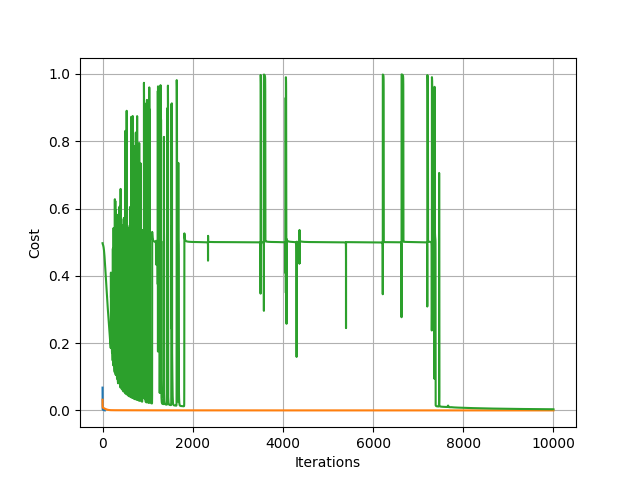
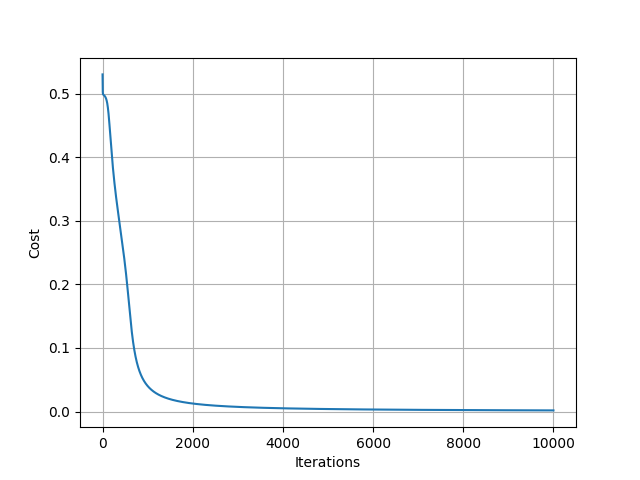
Brushed up implementation

diff --git a/python-code/forward_prop_test.py b/python-code/forward_prop_test.py
@@ -62,6 +62,8 @@ def test_opt():
     nn = NeuralNetwork(X.shape[1])
     t = Trainer(nn)
     t.train(X, y)
+
+    plt.close()
     plt.plot(t.J)
     plt.grid(1)
     plt.xlabel("Iterations")
@@ -87,13 +89,17 @@ def test_backprop():
     for i in range(0, 10000):
         dJdw1, dJdw2 = nn.cost_prime_function(X, y)
         nn.apply_changes(dJdw1, dJdw2)
-        costs.append(nn.cost_function(X, y))
+        cost = nn.cost_function(X, y)
+        costs.append(cost)
+        if cost <= 0.0001:
+            break
 
     print("Predict: ")
     print(nn.forwardPropagation(X))
     print("y: ")
     print(y)
 
+    plt.close()
     plt.plot(costs)
     plt.grid(1)
     plt.xlabel("Iterations")
@@ -113,13 +119,17 @@ def test_xor_backprop():
     for i in range(0, 10000):
         dJdw1, dJdw2 = nn.cost_prime_function(X, y)
         nn.apply_changes(dJdw1, dJdw2)
-        costs.append(nn.cost_function(X, y))
+        cost = nn.cost_function(X, y)
+        costs.append(cost)
+        if cost <= 0.001 or (len(costs) > 1 and abs(costs[-1] - cost) < 0.0000000001 and cost < 0.001):
+            break
 
     print("Predict: ")
     print(nn.forwardPropagation(X))
     print("y: ")
     print(y)
 
+    plt.close()
     plt.plot(costs)
     plt.grid(1)
     plt.xlabel("Iterations")

diff --git a/python-code/pymlp/neural_network.py b/python-code/pymlp/neural_network.py
@@ -48,7 +48,7 @@ class NeuralNetwork(object):
     def __init__(self, feature_no,
                  hidden_layer_neurons=3,
                  output_layer_size=1,
-                 alpha=3):
+                 alpha=1):
         """
         Create a neural network with a few params avaiable.
 
@@ -116,8 +116,6 @@ class NeuralNetwork(object):
 
     def compute_gradients(self, x, y):
         dJdw1, dJdw2 = self.cost_prime_function(x, y)
-        print("dj1: " + str(dJdw1))
-        print("dj2: " + str(dJdw2))
         return np.concatenate((dJdw1.ravel(), dJdw2.ravel()))
 
     # Helper Functions for interacting with other classes:
